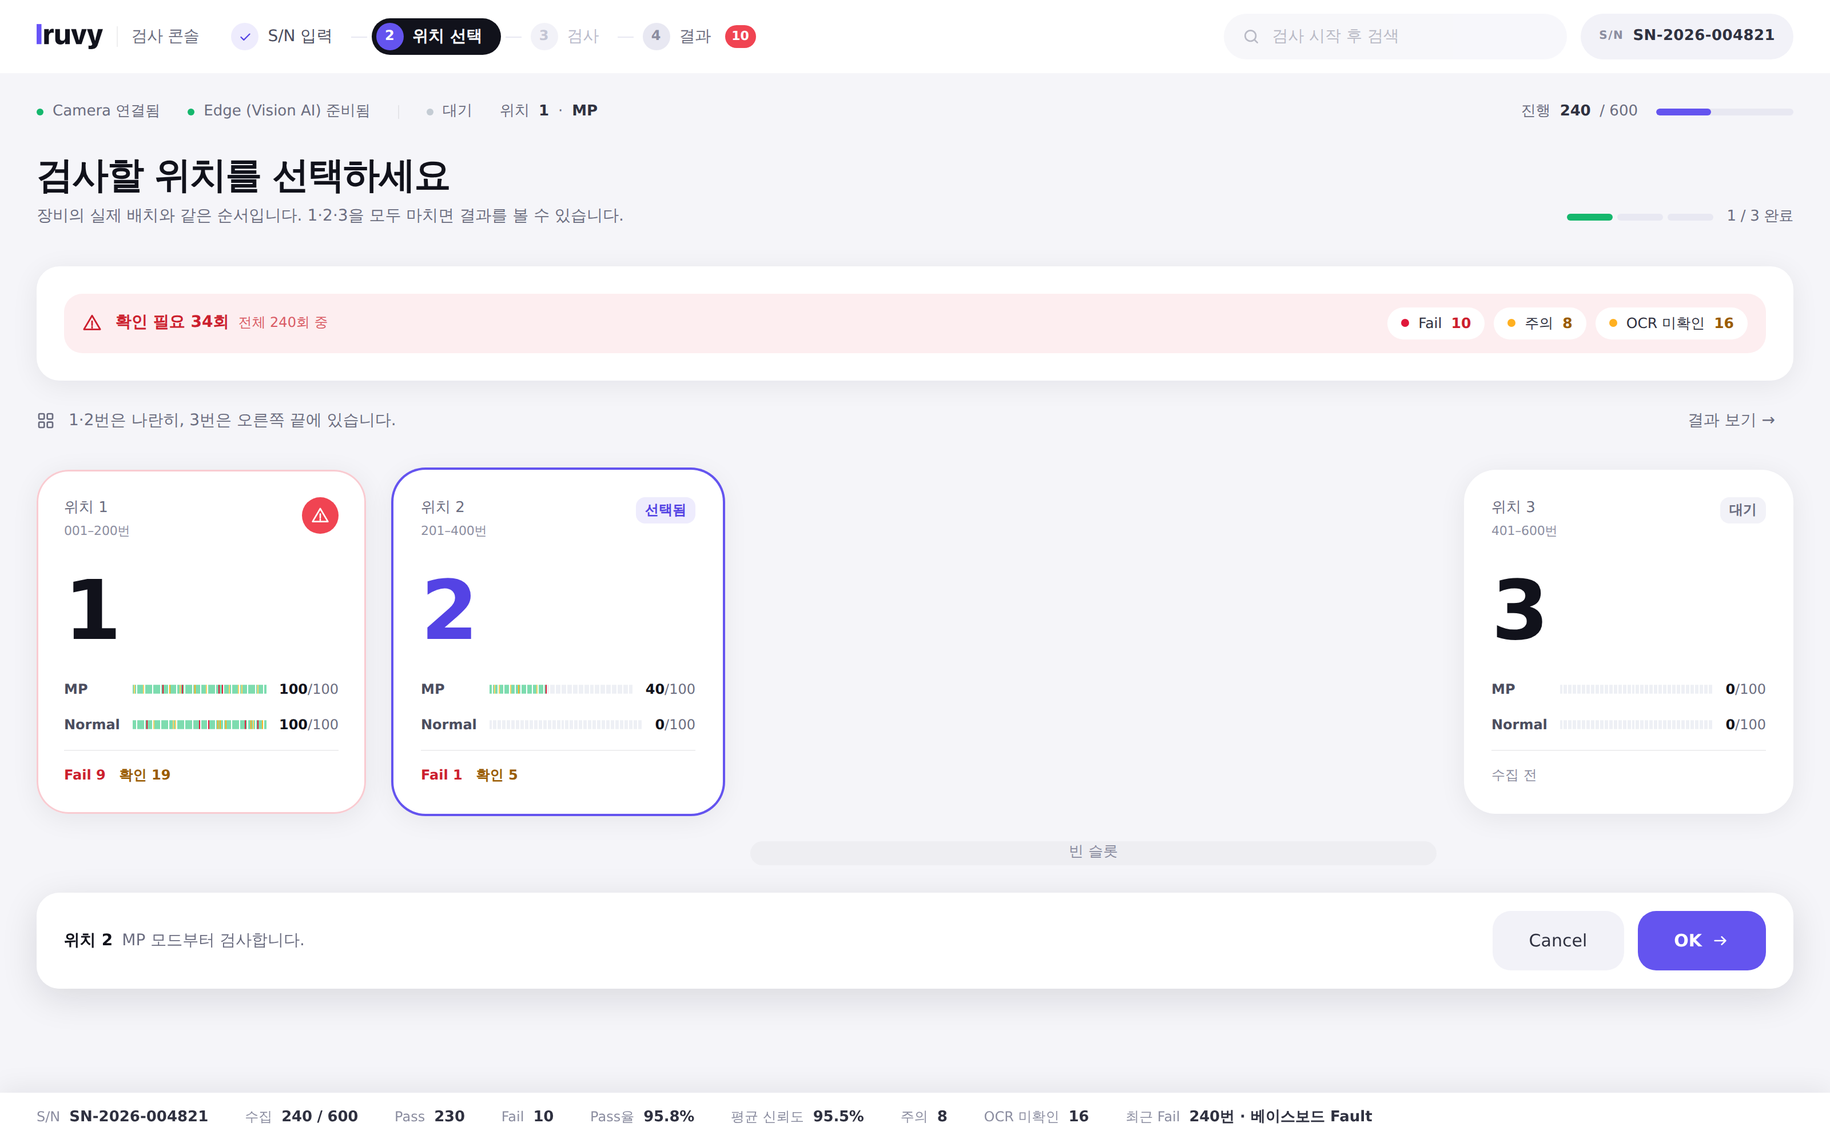
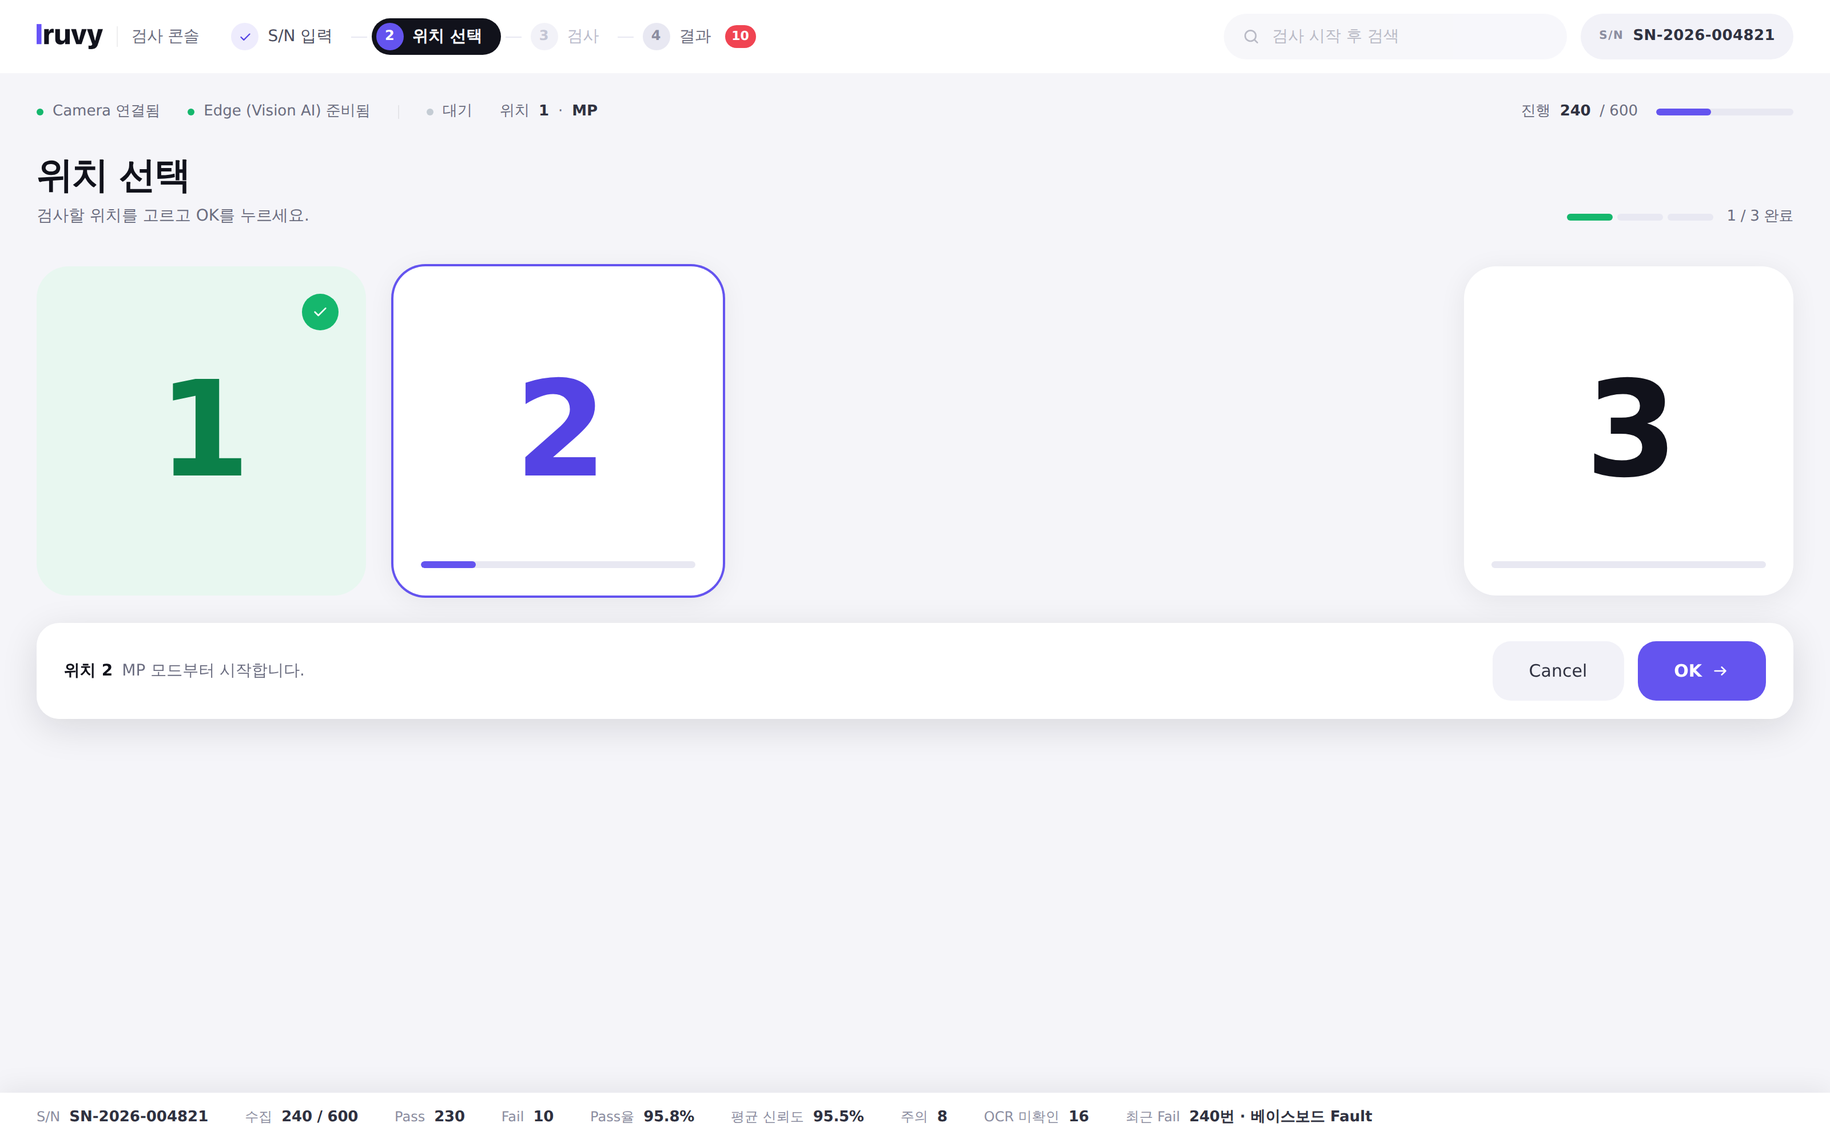
Noun titles, no layout prose, numbers-only position cards
- Every heading is a noun phrase now: S/N 입력, 위치 선택, 위치 1 검사,
  검사 결과, 회차 맵, 판정 기준, 위치 1 검사 중지. The "…하세요" and
  "…할까요?" sentence headings are gone.
- Dropped the layout prose ("1·2번은 나란히, 3번은 오른쪽 끝에 있습니다")
  and the 빈 슬롯 placeholder. The cards already sit where the machine's
  positions sit; anyone standing at it can see that.
- Position cards carry the number and nothing else. Pass/Fail counts, the
  reading ranges and the per-mode strips came off — the results screen
  reports all of that anyway. A completion check and a thin unlabelled
  progress bar are what remain, since "not done" still has to be
  distinguishable from "half done".
- The run-wide attention summary came off this screen for the same reason.

Also fixes the card sizing at phone width: min-height fought aspect-ratio
and pushed the grid wider than the viewport.

Claude-Session: https://claude.ai/code/session_01HK7ujvVD3H77SCkeS2NCmn

diff --git a/app.js b/app.js
@@ -320,10 +320,10 @@
   }
 
   function renderSerial() {
-    app.innerHTML = `<div class="sn-wrap"><section class="card sn-card"><h1>시리얼 번호를 입력하세요</h1><p class="intro">장비 라벨의 S/N을 입력하면 위치 선택으로 넘어갑니다.</p>
+    app.innerHTML = `<div class="sn-wrap"><section class="card sn-card"><h1>S/N 입력</h1><p class="intro">장비 라벨의 S/N을 입력하면 위치 선택으로 넘어갑니다.</p>
       <form id="sn-form" novalidate><div class="sn-field"><label for="sn-input">S/N</label><input class="sn-input" id="sn-input" placeholder="SN-2026-001234" maxlength="32" autocomplete="off" spellcheck="false" value="${esc(state.serial)}" aria-describedby="sn-help sn-err"><p class="sn-help" id="sn-help">영문·숫자·하이픈, 6자 이상</p><p class="sn-err" id="sn-err" role="alert" hidden></p></div>
       <div class="sn-plan"><div class="plan"><b>${TARGET * 6}</b><span>총 회차 · 3 × 2 × ${TARGET}</span></div><div class="plan"><b>${FIELDS.length}</b><span>서비스모드 항목</span></div><div class="plan"><b>${RULED.length}</b><span>기준이 있는 항목</span></div></div>
-      <div class="sn-rules"><span class="sn-rules-h">${icon('list')}이렇게 판정합니다<small>기준이 없는 ${FIELDS.length - RULED.length}개는 값만 기록합니다</small></span>
+      <div class="sn-rules"><span class="sn-rules-h">${icon('list')}판정 기준<small>기준이 없는 ${FIELDS.length - RULED.length}개는 값만 기록합니다</small></span>
         <span class="sn-rule-chips">${RULED.map(f => `<span class="rchip"><b>${f.n}</b>${esc(f.label)}<i>${esc(ruleText(f))}</i></span>`).join('')}</span></div>
       <div class="sn-actions"><button type="reset" class="btn btn-xl">Cancel</button><button type="submit" class="btn btn-xl btn-primary">OK ${icon('arrow')}</button></div></form></section></div>`;
     const form = document.getElementById('sn-form'), input = document.getElementById('sn-input'), err = document.getElementById('sn-err'); input.focus();
@@ -335,25 +335,16 @@
   function renderPositions() {
     const done = state.positions.filter(p => p.done).length, selP = state.selected ? state.positions[state.selected - 1] : null;
     const cards = state.positions.map(p => { const slot = p.id === 3 ? 5 : p.id, sel = state.selected === p.id;
-      const rows = MODES.flatMap(m => p[m]), t = tally(rows);
-      const from = (p.id - 1) * MODES.length * TARGET;
-      const badge = p.done
-        ? (t.fail ? `<span class="pos-done-badge is-fail" aria-label="완료 · Fail ${t.fail}회">${icon('alert')}</span>` : `<span class="pos-done-badge" aria-label="완료">${icon('check')}</span>`)
-        : sel ? '<span class="pill pill-accent">선택됨</span>' : '<span class="pill pill-neutral">대기</span>';
-      return `<button type="button" class="pos${sel ? ' is-selected' : ''}${p.done ? (t.fail ? ' is-done-fail' : ' is-done') : ''}" style="--slot:${slot}" data-pos="${p.id}" aria-pressed="${sel}" ${p.done ? 'disabled' : ''}>
-        <span class="pos-top"><span>위치 ${p.id}<small class="num">${pad(from + 1)}–${pad(from + MODES.length * TARGET)}번</small></span>${badge}</span>
+      const n = MODES.reduce((a, m) => a + p[m].length, 0), cap = MODES.length * TARGET;
+      return `<button type="button" class="pos${sel ? ' is-selected' : ''}${p.done ? ' is-done' : ''}" style="--slot:${slot}" data-pos="${p.id}" aria-label="위치 ${p.id}${p.done ? ' · 완료' : ''}" aria-pressed="${sel}" ${p.done ? 'disabled' : ''}>
+        ${p.done ? `<span class="pos-done-badge" aria-hidden="true">${icon('check')}</span>` : ''}
         <span class="pos-big">${p.id}</span>
-        <span class="pos-modes">${MODES.map(m => { const mt = tally(p[m]);
-          return `<span class="pm${modeDone(p, m) ? ' done' : ''}"><b>${m}</b>${miniStrip(p[m])}<span class="n"><b>${p[m].length}</b>/${TARGET}</span></span>`; }).join('')}</span>
-        <span class="pos-foot">${t.n ? `${t.fail ? `<i class="c-down">Fail ${t.fail}</i>` : '<i class="c-ok">Fail 0</i>'}${t.warn + t.ocr ? `<i class="c-warn">확인 ${t.warn + t.ocr}</i>` : ''}` : '<i class="c-none">수집 전</i>'}</span></button>`; }).join('');
-    const hint = allDone() ? '<b>세 위치 모두 완료</b>결과에서 Pass/Fail을 확인하고 업로드하세요.' : selP ? `<b>위치 ${selP.id}</b>${MODES.find(m => !modeDone(selP, m))} 모드부터 검사합니다.` : '검사할 위치를 고른 뒤 OK를 누르세요. 완료된 위치는 다시 고를 수 없습니다.';
-    app.innerHTML = `<div class="head"><div><h1>검사할 위치를 선택하세요</h1><p>장비의 실제 배치와 같은 순서입니다. 1·2·3을 모두 마치면 결과를 볼 수 있습니다.</p></div><div class="head-act"><div class="progress-3" aria-label="위치 완료 ${done}/3">${state.positions.map(p => `<span class="${p.done ? 'on' : ''}"></span>`).join('')}</div><small class="muted num">${done} / 3 완료</small></div></div>
-      ${anySamples() ? `<div class="card pad" style="margin-bottom:var(--s4)">${needSummary(allRows())}</div>` : ''}
-      <div class="layout-hint">${icon('grid')}<span>1·2번은 나란히, 3번은 오른쪽 끝에 있습니다.</span>${anySamples() ? '<button type="button" class="btn btn-ghost" data-action="results" style="margin-left:auto;min-height:36px">결과 보기 →</button>' : ''}</div>
-      <div class="pos-grid">${cards}<div class="pos-slot-empty" aria-hidden="true">빈 슬롯</div></div>
+        <span class="pos-bar" aria-hidden="true"><i style="width:${(n / cap * 100).toFixed(1)}%"></i></span></button>`; }).join('');
+    const hint = allDone() ? '<b>세 위치 완료</b>결과에서 Pass/Fail을 확인하고 업로드하세요.' : selP ? `<b>위치 ${selP.id}</b>${MODES.find(m => !modeDone(selP, m))} 모드부터 시작합니다.` : '완료된 위치는 다시 고를 수 없습니다.';
+    app.innerHTML = `<div class="head"><div><h1>위치 선택</h1><p>검사할 위치를 고르고 OK를 누르세요.</p></div><div class="head-act"><div class="progress-3" aria-label="위치 완료 ${done}/3">${state.positions.map(p => `<span class="${p.done ? 'on' : ''}"></span>`).join('')}</div><small class="muted num">${done} / 3 완료</small></div></div>
+      <div class="pos-grid">${cards}</div>
       <div class="action-bar"><p class="hint">${hint}</p><div class="actions">${allDone() ? `<button type="button" class="btn btn-xl btn-primary" data-action="results">결과 보러 가기 ${icon('arrow')}</button>` : `<button type="button" class="btn btn-xl" data-action="cancel">Cancel</button><button type="button" class="btn btn-xl btn-primary" data-action="ok" ${selP ? '' : 'disabled'}>OK ${icon('arrow')}</button>`}</div></div>`;
     app.querySelectorAll('[data-pos]').forEach(b => b.addEventListener('click', () => { state.selected = state.selected === +b.dataset.pos ? null : +b.dataset.pos; render(); }));
-    app.querySelectorAll('.needchip[data-filter]').forEach(b => b.addEventListener('click', e => { e.stopPropagation(); goResults(); state.resultsTab = 'ALL'; state.filter = b.dataset.filter; render(); }));
     bind('cancel', () => { state.selected = null; render(); });
     bind('ok', () => { const p = state.positions[state.selected - 1]; state.position = p.id; state.mode = MODES.find(m => !modeDone(p, m)) || 'MP'; state.status = 'idle'; state.last = null; state.screen = 'inspect'; render(); });
     bind('results', goResults);
@@ -404,7 +395,7 @@
     stopTimer(); if (state.status === 'running') { state.status = 'paused'; render(); }
     const p = pos();
     const t = tally(MODES.flatMap(m => p[m]));
-    openConfirm({ title: `위치 ${p.id} 검사를 중지할까요?`, desc: `지금까지 ${MODES.map(m => `${m} ${p[m].length}회`).join(', ')}를 수집했고, 그중 ${t.need ? `<b>확인이 필요한 회차가 ${t.need}회</b>(Fail ${t.fail} · 주의 ${t.warn} · OCR 미확인 ${t.ocr})입니다` : '<b>모두 정상</b>입니다'}. 중지하면 위치 ${p.id}은(는) 완료로 표시되고 위치 선택으로 돌아갑니다.`, cancel: '계속 검사', ok: '중지하고 완료 표시', danger: true, action: () => { p.done = true; goPositions(); } });
+    openConfirm({ title: `위치 ${p.id} 검사 중지`, desc: `지금까지 ${MODES.map(m => `${m} ${p[m].length}회`).join(', ')}를 수집했고, 그중 ${t.need ? `<b>확인이 필요한 회차가 ${t.need}회</b>(Fail ${t.fail} · 주의 ${t.warn} · OCR 미확인 ${t.ocr})입니다` : '<b>모두 정상</b>입니다'}. 중지하면 위치 ${p.id}은(는) 완료로 표시되고 위치 선택으로 돌아갑니다.`, cancel: '계속 검사', ok: '중지하고 완료 표시', danger: true, action: () => { p.done = true; goPositions(); } });
   }
   function goPositions() { stopTimer(); state.status = 'idle'; state.selected = null; state.screen = 'position'; render(); }
   function goResults() { stopTimer(); state.status = 'idle'; state.screen = 'results'; state.filter = 'issue'; state.jumpTo = null; if (!state.resultsTab) state.resultsTab = 'ALL'; render(); }
@@ -512,18 +503,6 @@
     const ocr = rows.filter(s => s.pass && !s.ruleWarnKeys.length && s.lowKeys.length).length;
     return { n: rows.length, fail, warn, ocr, need: fail + warn + ocr, pass: rows.length - fail };
   };
-  // 회차 맵과 같은 색으로 읽히는 작은 띠. 위치 카드처럼 좁은 곳에 쓴다.
-  function miniStrip(rows, cap = TARGET) {
-    const by = new Map(rows.map(s => [s.i, s]));
-    let cells = '';
-    for (let i = 1; i <= cap; i++) {
-      const s = by.get(i);
-      if (!s) { cells += '<i class="mn-c"></i>'; continue; }
-      const k = issueOf(s);
-      cells += `<i class="mn-c ${k === 'fail' ? 'bad' : k === 'warn' ? 'warn' : k === 'low' ? 'low' : 'ok'}"></i>`;
-    }
-    return `<span class="mn-strip" style="--cap:${cap}">${cells}</span>`;
-  }
   // 확인 필요 요약 한 줄. 검사 중·위치 선택·결과가 같은 문장을 쓴다.
   function needSummary(rows, o = {}) {
     const t = tally(rows);
@@ -655,7 +634,7 @@
       </section>
       <section class="board board-1"><div class="card pad"><div class="box-head"><h3>${icon('alert')}확인이 필요한 회차</h3><span class="cap">번호를 누르면 그 회차의 당시 화면이 열립니다</span></div>
         <div class="need-wrap">${needSummary(cur.rows)}</div>${issueList(cur.rows)}</div></section>
-      <section class="board board-2"><div class="card pad"><div class="box-head"><h3>${icon('spark')}어느 항목 때문인지</h3><span class="cap">누르면 그 항목만</span></div>${failBreakdown(base, 'all')}</div>${recentFails(flat, 6)}</section>
+      <section class="board board-2"><div class="card pad"><div class="box-head"><h3>${icon('spark')}항목별 Fail</h3><span class="cap">누르면 그 항목만</span></div>${failBreakdown(base, 'all')}</div>${recentFails(flat, 6)}</section>
       <section class="card log">
         <div class="log-head"><h2>${esc(cur.label)}<span class="sub">${shown.length}행 표시${shown.length !== cur.rows.length ? ` · 전체 ${cur.rows.length}행` : ''}</span></h2>
           <span class="upload-state${state.uploaded ? ' ok' : ''}">${state.uploaded ? `${icon('check')}업로드 완료 · ${state.uploaded}` : `${icon('info')}아직 업로드하지 않았습니다`}</span></div>

diff --git a/styles.css b/styles.css
@@ -220,34 +220,23 @@ svg.i { width: 16px; height: 16px; flex: 0 0 auto; }
 .plan span { font-size: 12px; color: var(--muted); }
 
 /* ───── 2. 위치 선택 ───── */
-.layout-hint { display: flex; align-items: center; gap: var(--s3); font-size: 14px; color: var(--muted); margin-bottom: var(--s5); }
+/* 장비의 실제 배치를 그대로 옮긴 자리(1·2 나란히, 3은 오른쪽 끝). 글로 설명하지 않는다. */
 .pos-grid { display: grid; grid-template-columns: repeat(5, minmax(0, 1fr)); gap: var(--s5); }
-.pos { grid-column: var(--slot); position: relative; min-height: 280px; padding: var(--s5); border-radius: var(--r-xl); border: 0; background: var(--card); box-shadow: var(--shadow); text-align: left; display: flex; flex-direction: column; transition: box-shadow .2s var(--ease), transform .2s var(--ease); }
+.pos { grid-column: var(--slot); position: relative; aspect-ratio: 1 / 1; padding: var(--s5); border-radius: var(--r-xl); border: 0;
+  background: var(--card); box-shadow: var(--shadow); display: grid; place-items: center;
+  transition: box-shadow .2s var(--ease), transform .2s var(--ease); }
 .pos:hover:not(:disabled) { box-shadow: var(--shadow-lift); transform: translateY(-2px); }
 .pos.is-selected { box-shadow: 0 0 0 2px var(--blue), var(--shadow); }
 .pos.is-done { background: var(--green-bg); box-shadow: none; }
-.pos.is-done-fail { background: var(--card); box-shadow: inset 0 0 0 1.5px var(--fail-line), var(--shadow); }
-.pos-top { display: flex; justify-content: space-between; align-items: flex-start; font-size: 13px; color: var(--muted); font-weight: 500; }
-.pos-top small { display: block; font-size: 11px; color: var(--faint); }
-.pos-foot { display: flex; gap: var(--s3); margin-top: var(--s3); padding-top: var(--s3); border-top: 1px solid var(--hair); font-family: var(--num); font-size: 12px; font-weight: 600; }
-.pos-foot i { font-style: normal; }
-.pos-foot i.c-ok { color: var(--faint); font-weight: 400; }
-.pos-foot i.c-none { color: var(--faint); font-weight: 400; }
-.pos-big { font-family: var(--num); font-size: 72px; font-weight: 700; letter-spacing: -3px; line-height: 1; margin: var(--s5) 0 auto; color: var(--ink); }
+.pos-big { font-family: var(--num); font-size: clamp(64px, 9vw, 116px); font-weight: 700; letter-spacing: -5px; line-height: 1; color: var(--ink); }
 .pos.is-done .pos-big { color: var(--green-text); }
 .pos.is-selected .pos-big { color: var(--blue-text); }
-.pos-done-badge { width: 32px; height: 32px; border-radius: 50%; background: var(--green); color: #fff; display: grid; place-items: center; flex: 0 0 auto; }
-.pos-done-badge.is-fail { background: var(--red); }
+.pos-done-badge { position: absolute; top: var(--s5); right: var(--s5); width: 32px; height: 32px; border-radius: 50%;
+  background: var(--green); color: #fff; display: grid; place-items: center; }
 .pos-done-badge svg { width: 16px; height: 16px; }
-.pos-modes { display: grid; gap: var(--s3); margin-top: var(--s5); }
-.pm { display: grid; grid-template-columns: 48px minmax(0, 1fr) auto; gap: var(--s3); align-items: center; font-size: 12px; }
-.pm b { font-weight: 600; color: var(--ink-3); }
-.pm .bar { height: 6px; background: var(--sunken-2); border-radius: var(--r-full); overflow: hidden; }
-.pm .bar > span { display: block; height: 100%; background: var(--blue); border-radius: var(--r-full); }
-.pm.done .bar > span { background: var(--green); }
-.pm .n { font-family: var(--num); color: var(--muted); }
-.pm .n b { color: var(--ink); }
-.pos-slot-empty { grid-column: 3 / 5; border-radius: var(--r-xl); background: rgba(25, 31, 40, .03); display: grid; place-items: center; color: var(--faint); font-size: 13px; }
+.pos-bar { position: absolute; left: var(--s5); right: var(--s5); bottom: var(--s5); height: 6px; border-radius: var(--r-full); background: var(--sunken-2); overflow: hidden; }
+.pos.is-done .pos-bar { display: none; }
+.pos-bar i { display: block; height: 100%; background: var(--blue); border-radius: var(--r-full); transition: width .3s var(--ease); }
 .progress-3 { display: flex; gap: var(--s1); }
 .progress-3 span { width: 40px; height: 6px; border-radius: var(--r-full); background: var(--sunken-2); }
 .progress-3 span.on { background: var(--green); }
@@ -501,14 +490,6 @@ table.tbl tr.is-target td.idx, table.tbl tr.is-target td.judge { background: #fa
 .needchip.w i { background: var(--map-warn); }
 .needchip.f b { color: var(--red-text); } .needchip.w b { color: var(--amber-text); }
 
-/* 좁은 자리에 쓰는 미니 회차 띠 — 회차 맵과 같은 색 */
-.mn-strip { display: grid; grid-template-columns: repeat(var(--cap, 100), minmax(0, 1fr)); gap: 1px; height: 8px; }
-.mn-c { display: block; border-radius: 1px; background: var(--map-empty); }
-.mn-c.ok { background: var(--map-pass); }
-.mn-c.warn { background: var(--map-warn); }
-.mn-c.low { background: #ffd166; }
-.mn-c.bad { background: var(--map-fail); }
-
 /* ───── S/N 화면의 판정 기준 미리보기 ───── */
 .sn-rules { margin-top: var(--s4); padding-top: var(--s4); border-top: 1px solid var(--hair); display: grid; gap: var(--s2); }
 .sn-rules-h { display: flex; align-items: center; gap: var(--s2); font-size: 13px; font-weight: 600; color: var(--ink-2); }
@@ -663,7 +644,9 @@ body:not(.preview) .action-bar { bottom: 44px; }
   .st-right { margin-left: 0; }
   .page { padding: var(--s4) var(--s4) var(--s8); }
   .metrics { grid-template-columns: minmax(0, 1fr); }
-  .pos-grid { grid-template-columns: 1fr 1fr; } .pos { grid-column: auto; min-height: 220px; } .pos-slot-empty { display: none; }
+  .pos-grid { grid-template-columns: 1fr 1fr; gap: var(--s4); } .pos { grid-column: auto; padding: var(--s4); }
+  .pos-done-badge { top: var(--s4); right: var(--s4); width: 28px; height: 28px; }
+  .pos-bar { left: var(--s4); right: var(--s4); bottom: var(--s4); }
   .head { flex-direction: column; align-items: stretch; }
   .sn-card { padding: var(--s5); } .sn-plan { grid-template-columns: 1fr; }
   .action-bar { flex-wrap: wrap; }

diff --git a/README.md b/README.md
@@ -12,6 +12,12 @@
 
 > `v1/`은 참고용으로 남겨 둔 **구버전**입니다. 현재 설계는 루트 한 벌뿐이고, 아래 내용은 전부 루트 기준입니다.
 
+## 글 대신 배치와 숫자로
+
+- **제목은 전부 명사**입니다. `S/N 입력` · `위치 선택` · `위치 1 검사` · `검사 결과` · `회차 맵` · `판정 기준`. "…하세요", "…할까요?" 같은 문장 제목은 쓰지 않습니다.
+- **배치는 설명하지 않습니다.** 위치 1·2를 나란히, 3을 오른쪽 끝에 두는 것으로 끝입니다. 장비 앞에 서면 같은 모양이 보이니 글로 적을 이유가 없습니다.
+- **위치 카드에는 숫자만** 둡니다. Pass/Fail은 결과 화면이 다 보여주므로 여기서 미리 셀 필요가 없습니다. 완료 체크와 얇은 진행 막대만 남겼습니다.
+
 ## 모든 화면이 같은 말을 합니다
 
 네 화면이 같은 세 묶음(**Fail · 주의 · OCR 미확인**)과 같은 **1~600 회차 번호**로 말합니다. 어느 화면에서 봐도 숫자가 맞습니다.
@@ -19,7 +25,7 @@
 | 화면 | 무엇을 말하는가 |
 | --- | --- |
 | **S/N 입력** | 무엇을 어떻게 볼지 먼저 보여줍니다 — 총 600회 · 서비스모드 26개 항목 · 기준이 있는 13개, 그리고 그 13개의 규칙을 칩으로 |
-| **위치 선택** | 위치마다 담당 회차 범위(`001–200번`), 모드별 미니 회차 띠, `Fail n · 확인 n`. 위에는 전체 요약 한 줄 — 칩을 누르면 결과에서 그 묶음만 열립니다 |
+| **위치 선택** | 숫자 1 · 2 · 3 만. 장비 배치와 같은 자리에 두었으니 글로 설명하지 않고, Pass/Fail은 어차피 결과에서 봅니다. 완료 표시와 진행 막대만 남겼습니다 |
 | **검사** | 실시간 회차 맵 + 같은 요약 한 줄 + 최근 Fail. 지수 카드도 `Fail · 주의 · OCR 미확인`로 쪼개 보여줍니다 |
 | **결과** | 1–600 회차 맵, 확인이 필요한 회차 번호 목록, 회차 로그 표 |
 | **중지 · 완료 확인** | "확인이 필요한 회차가 20회(Fail 7 · 주의 2 · OCR 미확인 11)입니다" — 같은 문장으로 |
@@ -79,8 +85,8 @@
 
 | screen 값 | 화면 |
 | --- | --- |
-| `serial` | 01 · S/N 입력 (Cancel / OK) |
-| `position` | 02 · 위치 선택 (1·2 나란히, 3은 오른쪽 끝) |
+| `serial` | 01 · S/N 입력 · 판정 기준 미리보기 |
+| `position` | 02 · 위치 선택 |
 | `ready` | 03 · 검사 준비 (▷ ⏸ ◻, 현재 개수 / 100) |
 | `running` | 04 · Vision AI 감지 중 (회차 맵 실시간) |
 | `paused` | 05 · 일시정지 |
